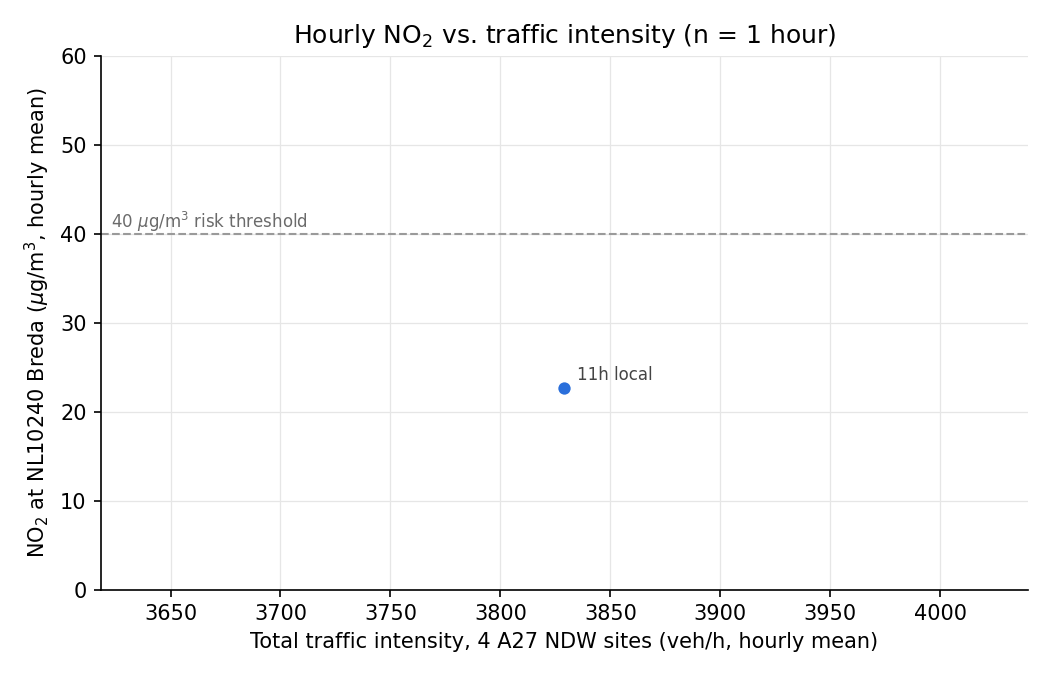
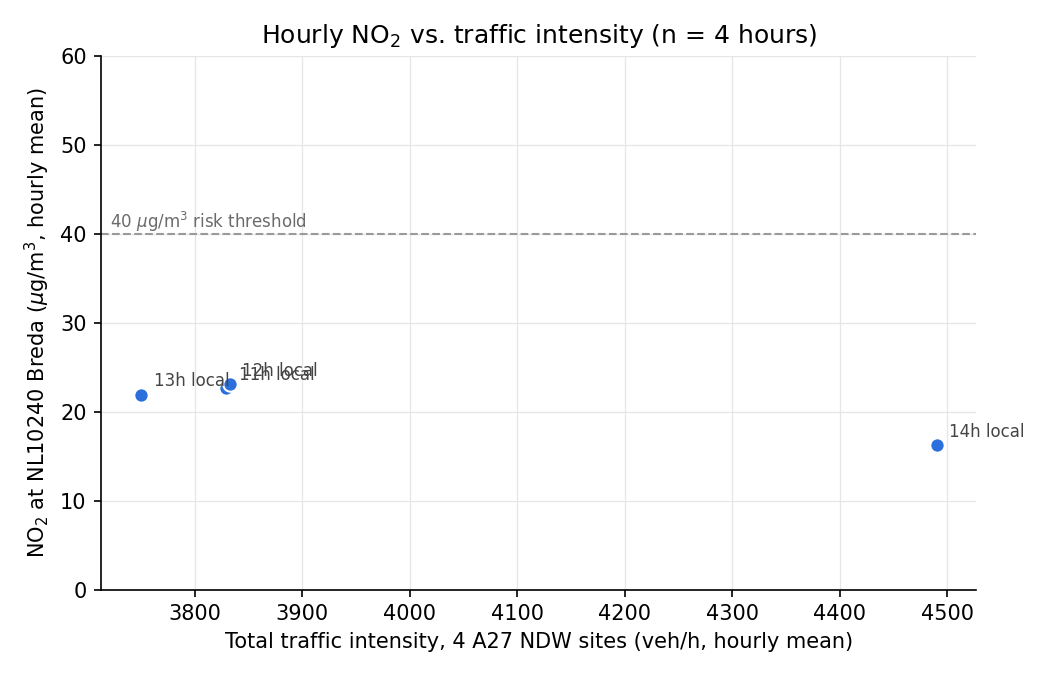
model: retrain on 4 hourly rows and update the document numbers

diff --git a/docs/index.md b/docs/index.md
@@ -15,7 +15,7 @@ AirBreda answers one question for the Municipality of Breda: how does A27 traffi
 
 It runs on AWS in eu-north-1 (Stockholm): one EC2 t3.micro with two cron-started ingestion containers and an always-on dashboard, RDS PostgreSQL and an S3 bucket. Dashboard: [http://13.61.230.95:8000](http://13.61.230.95:8000). Code: [https://github.com/MohammadaliJaberi244437/airbreda](https://github.com/MohammadaliJaberi244437/airbreda).
 
-I did the five-day course in one day (1 October 2026). NDW capture started on my laptop at 10:33 local time, before any cloud resource existed; cloud ingestion has run since 11:23. With <!--N_ROWS-->1<!--/N_ROWS--> hourly rows the model is a placeholder that proves the serving path; the architecture is the deliverable.
+I did the five-day course in one day (1 October 2026). NDW capture started on my laptop at 10:33 local time, before any cloud resource existed; cloud ingestion has run since 11:23. With <!--N_ROWS-->4<!--/N_ROWS--> hourly rows the model is a placeholder that proves the serving path; the architecture is the deliverable.
 
 ## 1. Architecture diagram {#architecture}
 
@@ -157,21 +157,21 @@ flowchart LR
 
 ### ADR-006: ML Serving Architecture {#adr-006}
 
-**Status:** Accepted for the prototype; numbers from the final training at <!--TRAINED_AT-->13:16 on 1 October 2026 (Amsterdam time)<!--/TRAINED_AT-->.
+**Status:** Accepted for the prototype; numbers from the final training at <!--TRAINED_AT-->15:32 on 1 October 2026 (Amsterdam time)<!--/TRAINED_AT-->.
 
-**Context.** Target: hourly NO2 at NL10240. Features: total A27 intensity (hourly mean of the 10-minute samples, summed over four sites) and local hour of day. Training data: <!--N_ROWS-->1<!--/N_ROWS--> hourly rows (<!--TRAIN_RANGE-->hours ending 1 October 2026 10:00 UTC to 1 October 2026 10:00 UTC<!--/TRAIN_RANGE-->). Flagged hours are excluded, as are hours in which any site has fewer than 3 samples spanning 30 minutes (the coverage rule the dashboard applies too) and hours without published NO2.
+**Context.** Target: hourly NO2 at NL10240. Features: total A27 intensity (hourly mean of the 10-minute samples, summed over four sites) and local hour of day. Training data: <!--N_ROWS-->4<!--/N_ROWS--> hourly rows (<!--TRAIN_RANGE-->hours ending 1 October 2026 10:00 UTC to 1 October 2026 13:00 UTC<!--/TRAIN_RANGE-->). Flagged hours are excluded, as are hours in which any site has fewer than 3 samples spanning 30 minutes (the coverage rule the dashboard applies too) and hours without published NO2.
 
 ![Training data: NO2 at NL10240 against total A27 intensity](img/no2_vs_intensity.png)
 
 **Decision.**
 
-- **Linear regression** on `[total_intensity_veh_per_hr, hour_of_day]`: three parameters, readable coefficients, little room to memorise a handful of rows. Result: in-sample R2 <!--R2-->undefined<!--/R2-->, in-sample MAE <!--MAE-->0.00<!--/MAE--> ug/m3, intensity coefficient <!--COEF_INTENSITY-->0.0000<!--/COEF_INTENSITY--> ug/m3 per veh/h, hour coefficient <!--COEF_HOUR-->0.000<!--/COEF_HOUR-->, intercept <!--INTERCEPT-->22.68<!--/INTERCEPT-->. Below 10 rows there is no test set, so these numbers say nothing about predictive skill. Thousands of hourly rows with weather features would justify gradient-boosted trees.
+- **Linear regression** on `[total_intensity_veh_per_hr, hour_of_day]`: three parameters, readable coefficients, little room to memorise a handful of rows. Result: in-sample R2 <!--R2-->0.97<!--/R2-->, in-sample MAE <!--MAE-->0.37<!--/MAE--> ug/m3, intensity coefficient <!--COEF_INTENSITY-->-0.0071<!--/COEF_INTENSITY--> ug/m3 per veh/h, hour coefficient <!--COEF_HOUR-->-0.703<!--/COEF_HOUR-->, intercept <!--INTERCEPT-->58.09<!--/INTERCEPT-->. Below 10 rows there is no test set, so these numbers say nothing about predictive skill. Thousands of hourly rows with weather features would justify gradient-boosted trees.
 - **no2_exceedance_risk** = 1 / (1 + exp(-0.2 x (predicted NO2 - 40))). 40 ug/m3 is the EU annual limit value (Directive 2008/50/EC) and the WHO 2005 annual guideline, applied to hourly values as a deliberate, stated mismatch: an hour above 40 is no legal exceedance but pushes the annual mean the wrong way, while the hourly limit of 200 is never approached here. A sigmoid rather than a yes/no flag, because the prediction is uncertain: 0.12 at 30, 0.5 at 40, 0.88 at 50.
 - **Training-serving skew** here would be: local hour for training but UTC for serving (predictions one or two hours off); hourly means for training but one 1-minute sample for serving; or an 08:30 traffic sample joined to the NO2 row labelled 08:00, although Luchtmeetnet labels an hour by its end (09:00). One module, `features.py`, used by training and dashboard alike, prevents all three. Baking the model into the image removes another cause: code and model ship as one versioned artifact, so serving cannot load a model built with other feature code or fail on a runtime download.
 - **One station, four sites:** the sites form one interchange with one air-quality context, and the model uses their sum. A second interchange needs a second station when its traffic cannot plausibly reach NL10240 (kilometres away, or usually downwind); otherwise the model learns noise.
 - **If predict() fails**, `/site/{id}` still returns 200 with the real NO2 and intensity, a null prediction and risk, and a `prediction_error`, logged as ERROR: the measurements are the trustworthy part and should not vanish because the least trustworthy part failed. Only an unreachable RDS or S3 gives 503, because then nothing real is left.
 
-**Consequences.** All four sites show the same prediction and risk next to their own intensity, and the risk is a score, not a calibrated probability. With <!--N_ROWS-->1<!--/N_ROWS--> rows the model is a placeholder, not a forecast. Retraining means rebuilding and restarting the image: model and feature code cannot drift apart, but no model changes without a deploy. A model failure costs the prediction, never the page. A second interchange needs its own station mapping and model.
+**Consequences.** All four sites show the same prediction and risk next to their own intensity, and the risk is a score, not a calibrated probability. With <!--N_ROWS-->4<!--/N_ROWS--> rows the model is a placeholder, not a forecast. Retraining means rebuilding and restarting the image: model and feature code cannot drift apart, but no model changes without a deploy. A model failure costs the prediction, never the page. A second interchange needs its own station mapping and model.
 
 ## 3. Trade-off justifications {#trade-offs}
 
@@ -219,7 +219,7 @@ What we would lose by switching: not the data and not the software. AirBreda is 
 
 ## 6. Reflection {#reflection}
 
-My least confident decision is the core modelling assumption: that A27 traffic at hectometer 63 explains NO2 at Breda-Tilburgseweg, so one station serves all four sites and traffic plus hour are the only features. I chose it because it was the pairing I could build and test in a day, not because data showed it. With <!--N_ROWS-->1<!--/N_ROWS--> rows the model cannot separate traffic from time of day, weather or the regional background: on a calm morning NO2 rises with or without the motorway. Three things would make me confident: months of data with KNMI wind direction, where the traffic effect should be clearly larger when the wind blows from the A27 to the station; a background station away from the motorway as a control; and a held-out test in which the model beats a naive baseline such as the same hour last week.
+My least confident decision is the core modelling assumption: that A27 traffic at hectometer 63 explains NO2 at Breda-Tilburgseweg, so one station serves all four sites and traffic plus hour are the only features. I chose it because it was the pairing I could build and test in a day, not because data showed it. With <!--N_ROWS-->4<!--/N_ROWS--> rows the model cannot separate traffic from time of day, weather or the regional background: on a calm morning NO2 rises with or without the motorway. Three things would make me confident: months of data with KNMI wind direction, where the traffic effect should be clearly larger when the wind blows from the A27 to the station; a background station away from the motorway as a control; and a held-out test in which the model beats a naive baseline such as the same hour last week.
 
 With a full year of data I would change three things. Features: wind speed and direction, temperature, day of week, holidays, congestion (speed), and hour of day as a cycle (sine and cosine), since NO2 has morning and evening peaks that a linear hour term cannot express. Algorithm: gradient-boosted trees, which learn interactions such as "traffic matters when the wind is from the east", with linear regression as the baseline to beat. Evaluation: a time-based split (train on nine months and test on three, or a rolling origin), never a random one, because neighbouring hours are near copies and would leak. I would report MAE against the naive baseline and, for the risk score, its calibration and how many real hours above 40 it catches.
 
